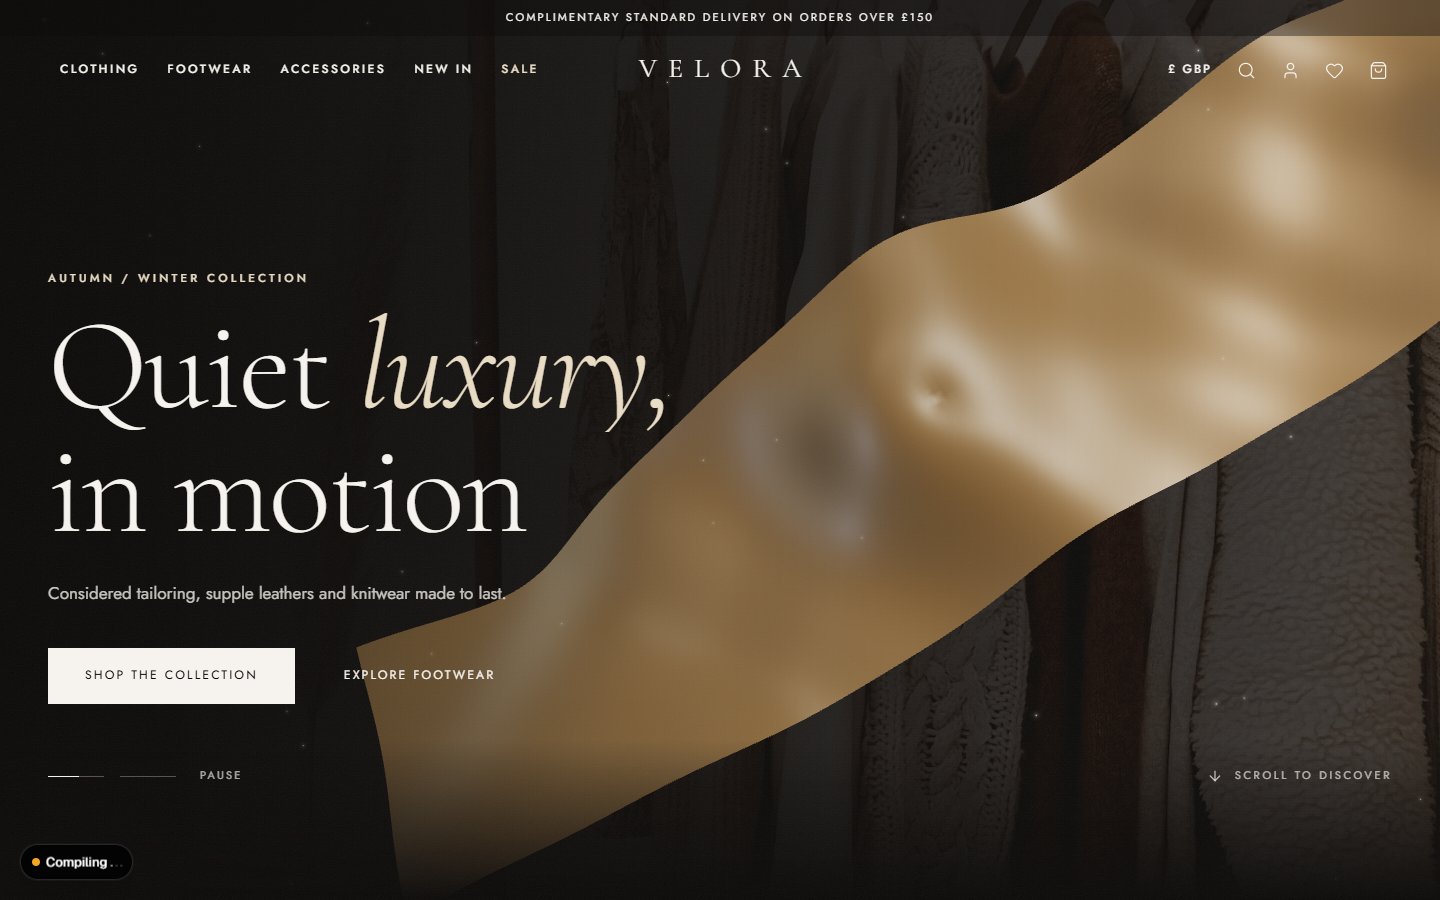
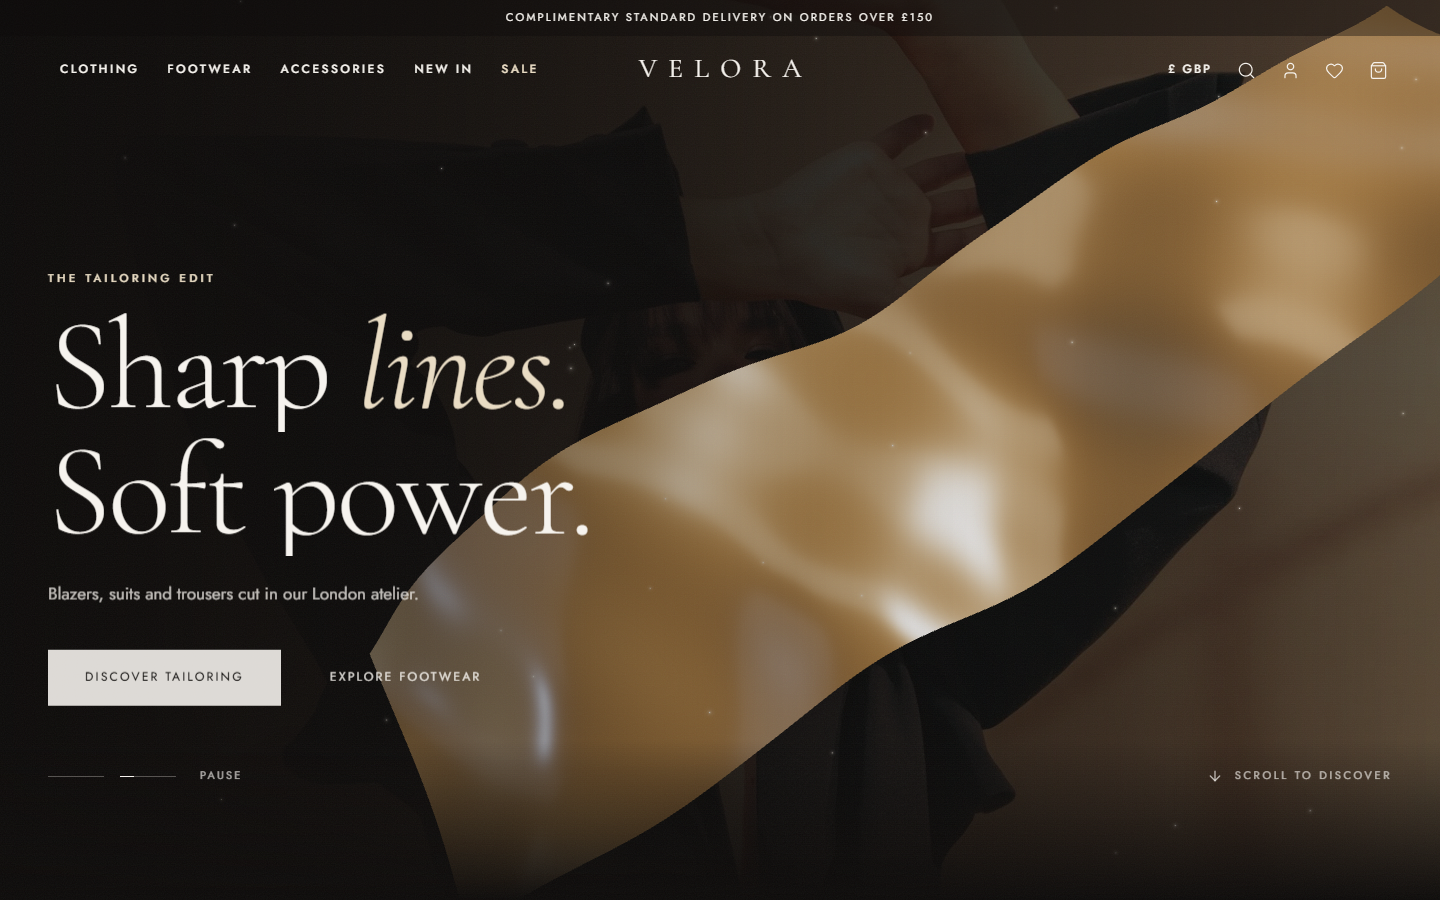
Fix README screenshot layout

diff --git a/README.md b/README.md
@@ -6,8 +6,10 @@ A production-oriented e-commerce platform for a fashion house selling clothing, 
 
 | Storefront | Owner portal |
 | --- | --- |
-| ![Footwear 3D carousel](docs/screenshots/footwear-3d-carousel.png) | ![Dashboard](docs/screenshots/admin-dashboard.png) |
-| ![Product page](docs/screenshots/product-detail.png) | ![Product editor](docs/screenshots/admin-product-editor.png) |
+| ![Footwear 3D carousel](docs/screenshots/footwear-3d-carousel.png) | [![Dashboard](docs/screenshots/admin-dashboard-top.png)](docs/screenshots/admin-dashboard.png) |
+| ![Product page](docs/screenshots/product-detail.png) | [![Product editor](docs/screenshots/admin-product-editor-top.png)](docs/screenshots/admin-product-editor.png) |
+
+<sub>Click an owner-portal screenshot to see the full page.</sub>
 
 ---
 
